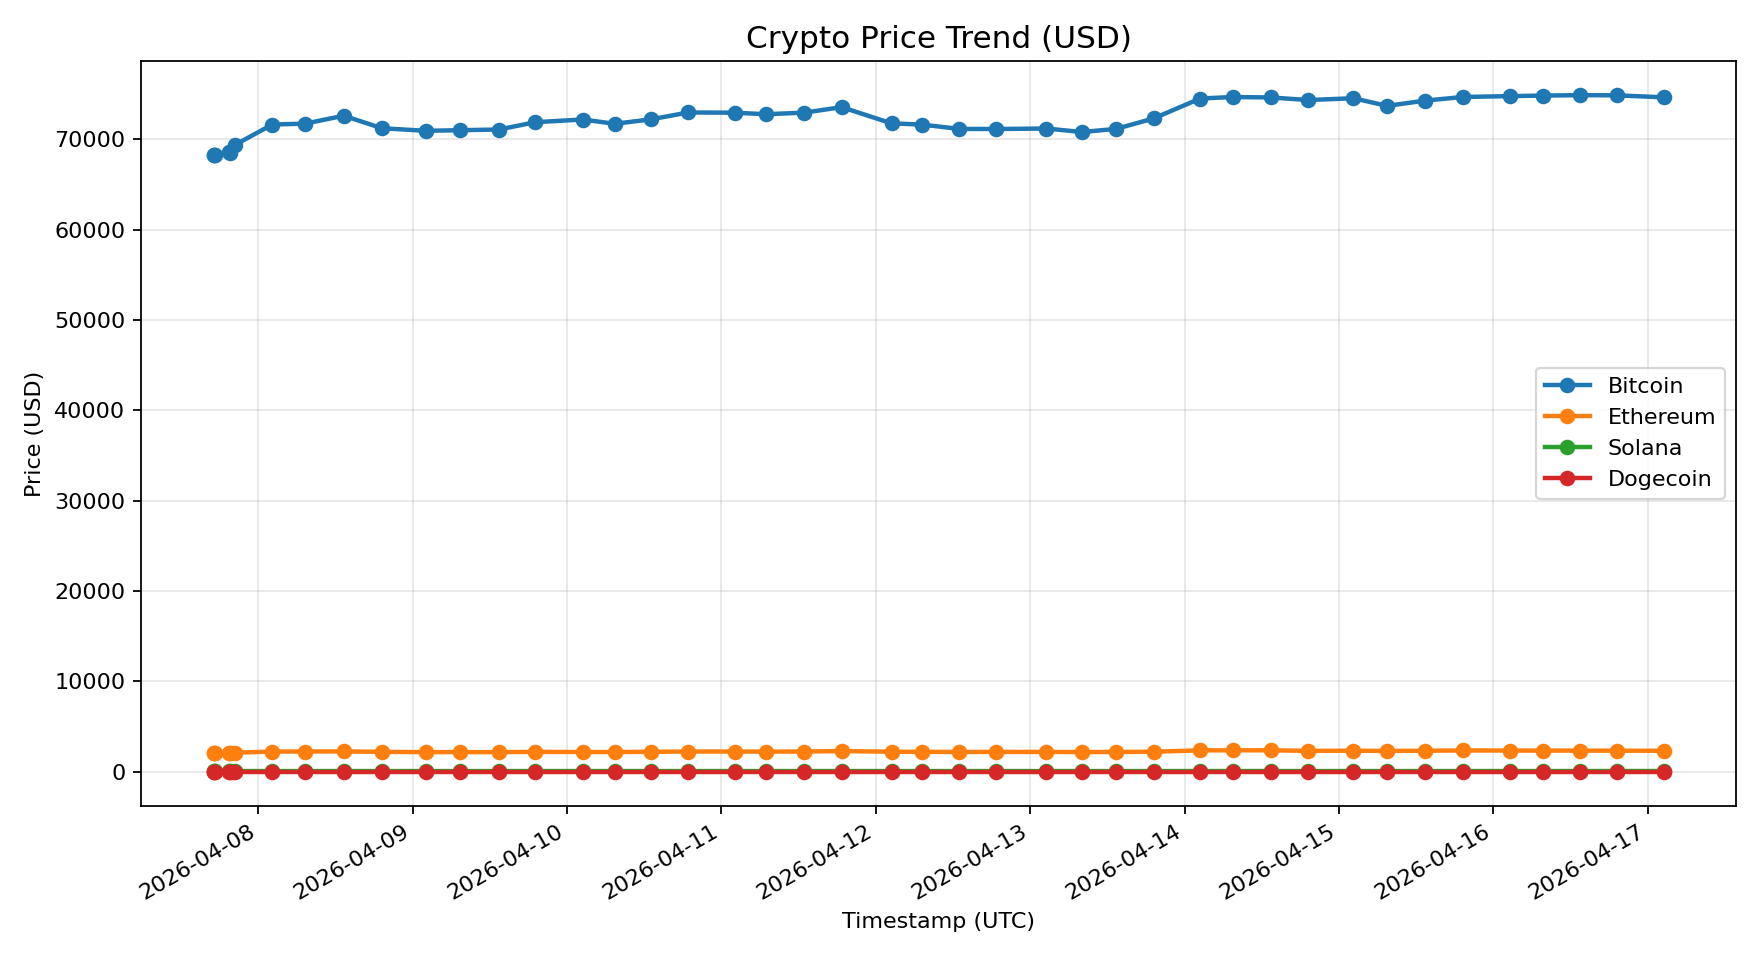
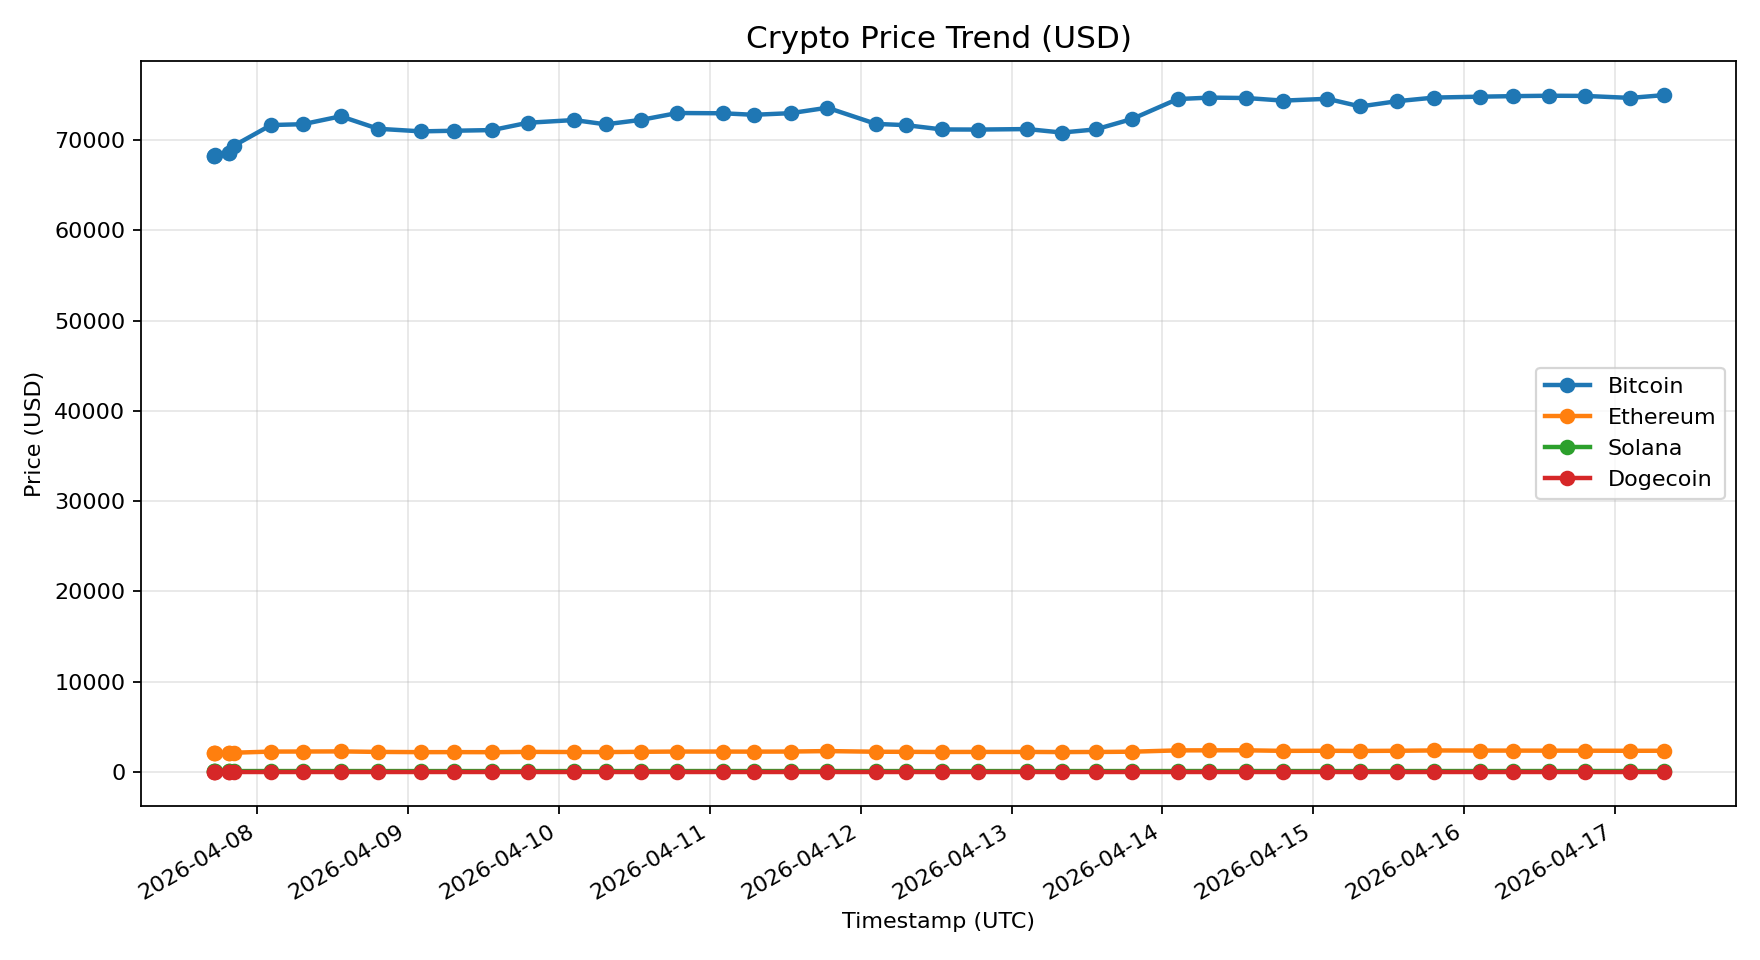
chore: update crypto snapshots and dashboard

diff --git a/README.md b/README.md
@@ -4,7 +4,7 @@ Production-ready crypto tracker built with Python, Streamlit, and GitHub Actions
 
 ## Live Dashboard
 
-- Last updated (UTC): **2026-04-17T02:26:26+00:00**
+- Last updated (UTC): **2026-04-17T07:43:42+00:00**
 - Alert threshold: **+/-5.00%** run-to-run movement
 - Tracked coins: Bitcoin, Ethereum, Solana, Dogecoin
 
@@ -12,10 +12,10 @@ Production-ready crypto tracker built with Python, Streamlit, and GitHub Actions
 
 | Coin | Latest Price (USD) | 24h Change (CoinGecko) | Change Since Last Run |
 | --- | ---: | ---: | ---: |
-| Bitcoin | $74,661.0000 | -0.20% | -0.30% |
-| Ethereum | $2,329.9000 | -1.12% | -0.40% |
-| Solana | $87.8900 | +3.59% | -1.08% |
-| Dogecoin | $0.0976 | +2.28% | -1.78% |
+| Bitcoin | $74,964.0000 | +0.11% | +0.41% |
+| Ethereum | $2,334.7700 | -0.68% | +0.21% |
+| Solana | $88.1100 | +3.13% | +0.25% |
+| Dogecoin | $0.0981 | +1.50% | +0.46% |
 
 ### Price Trend Chart
 
